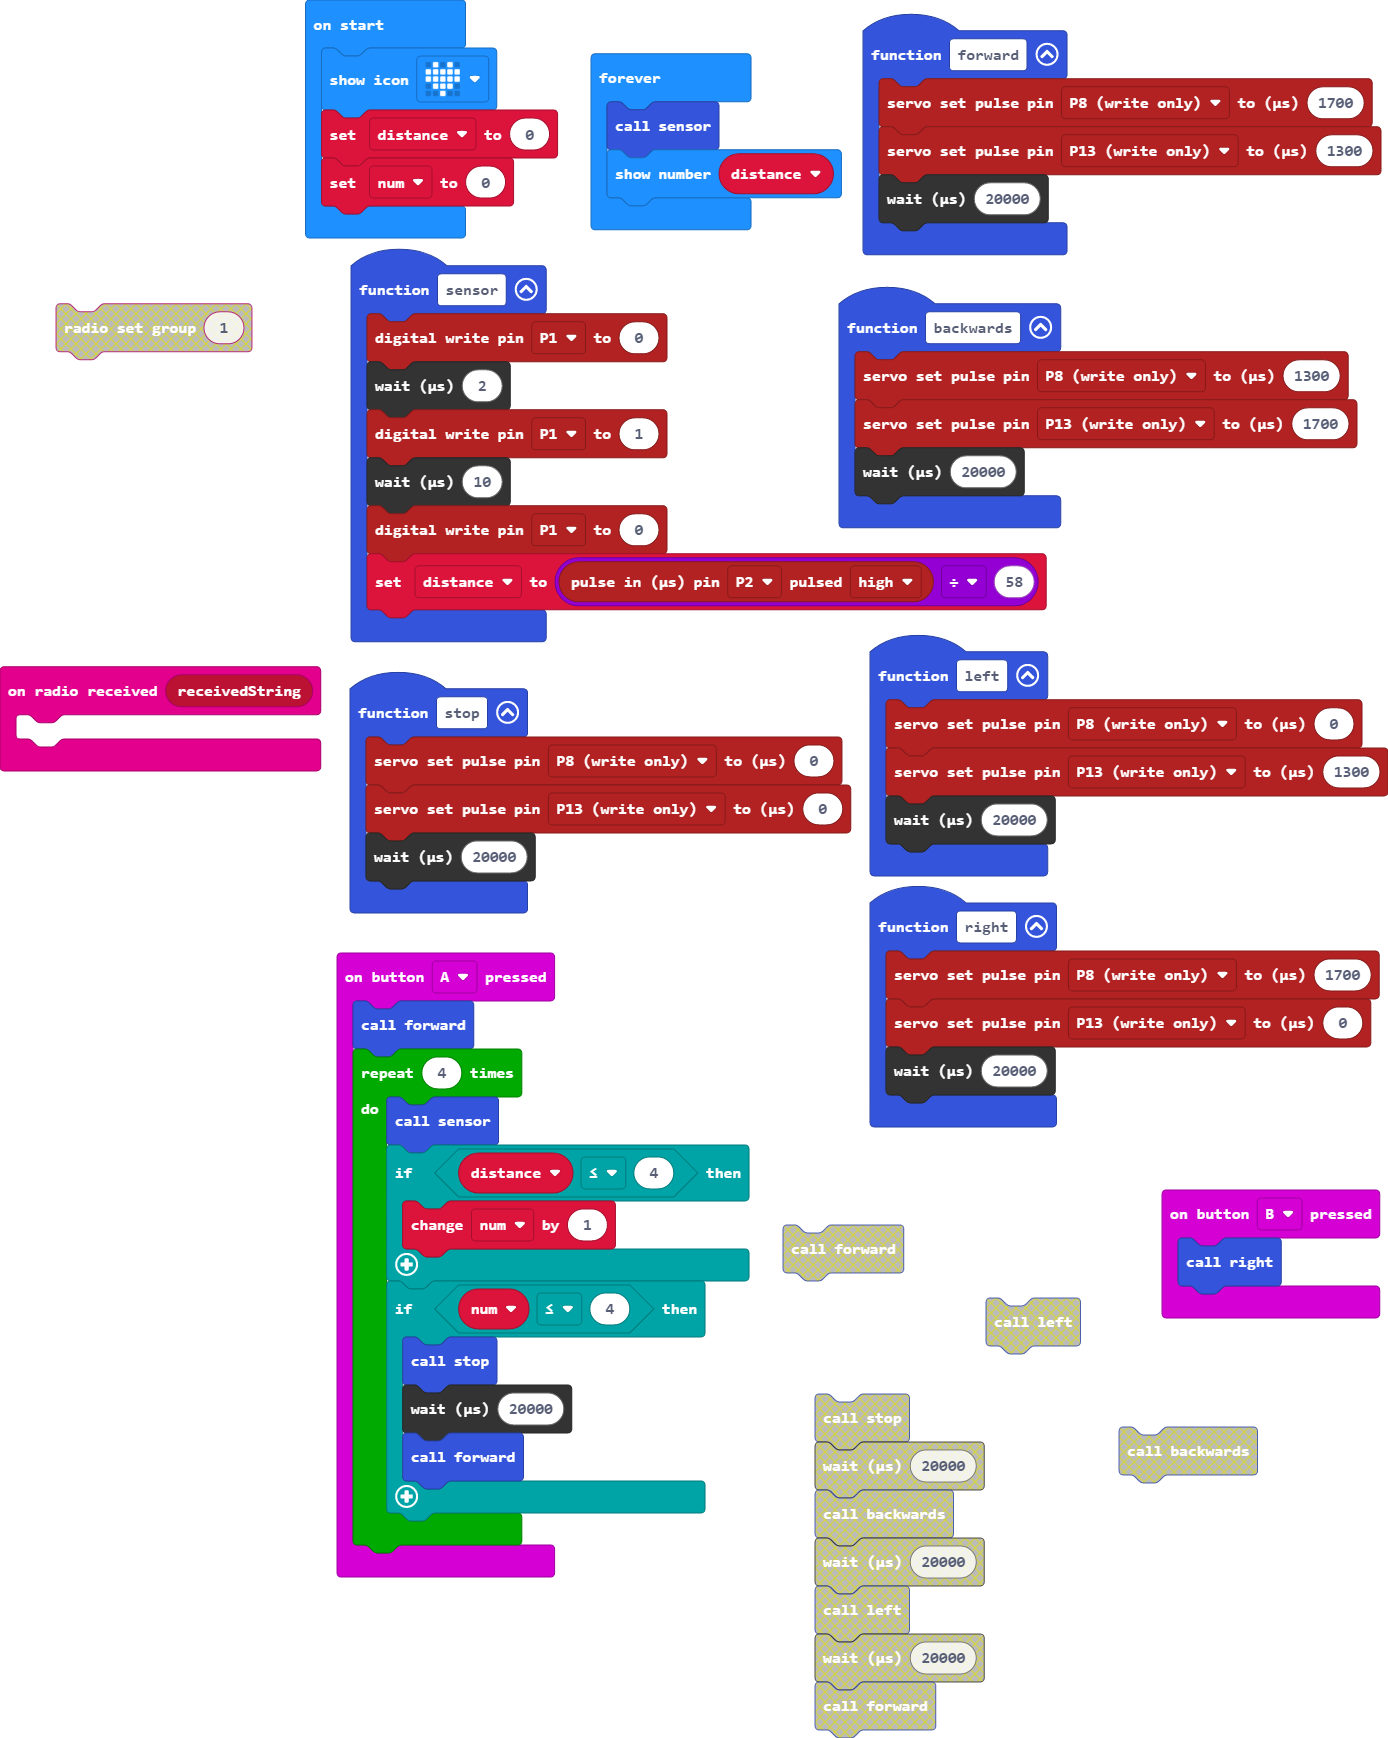
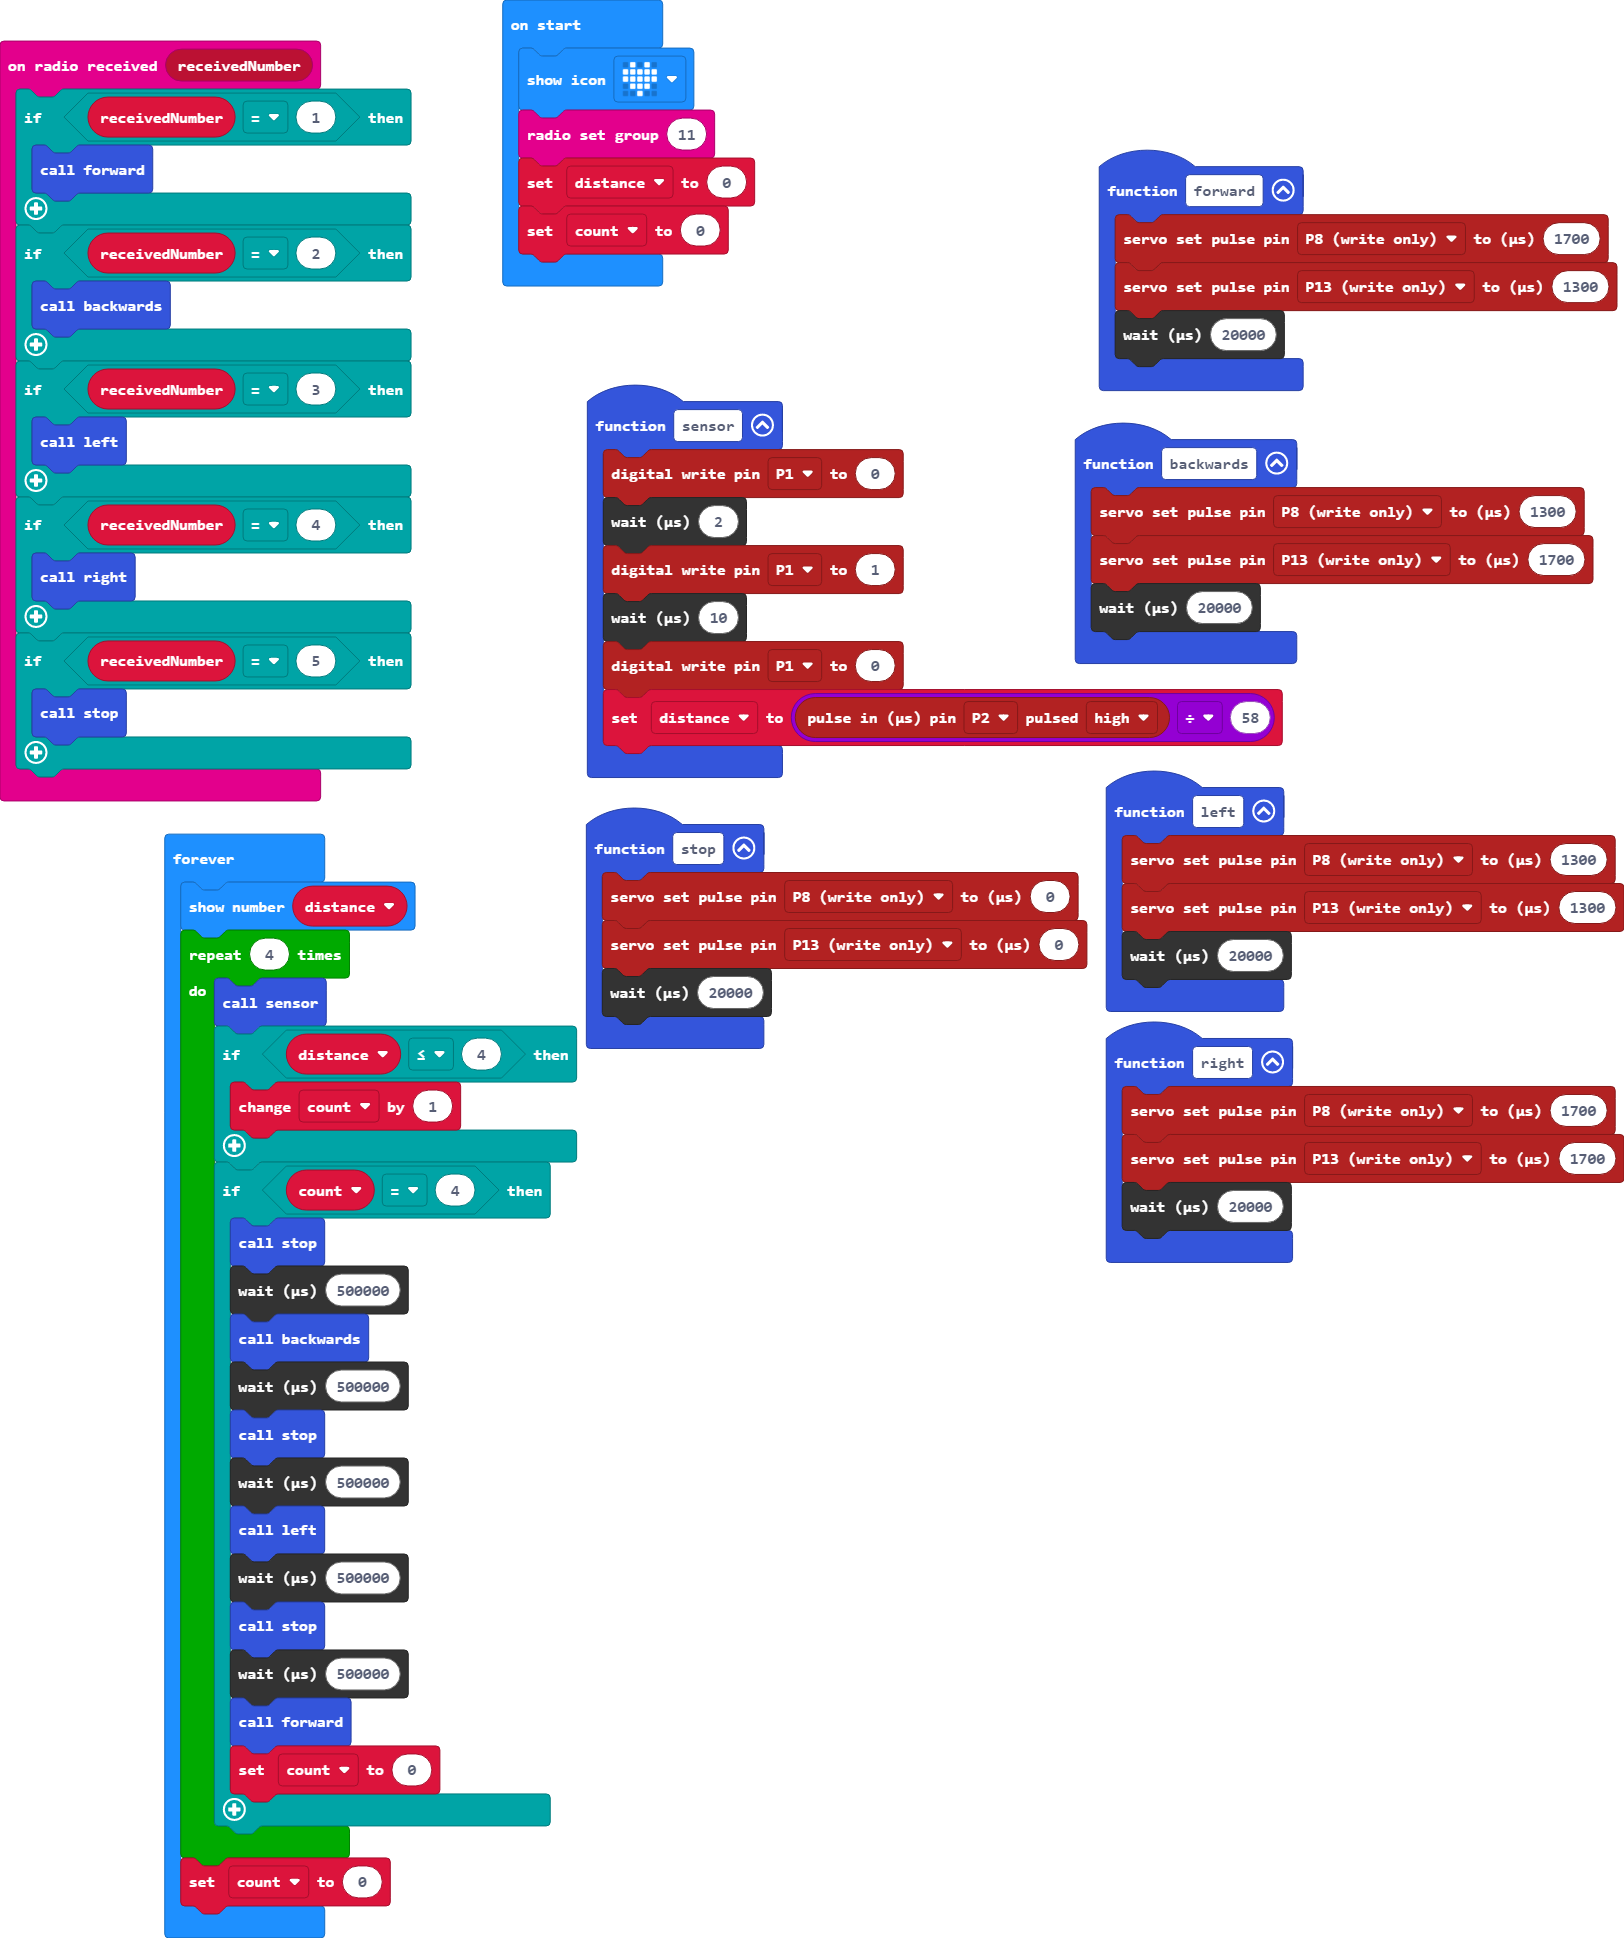
Update main.blocks, main.ts

diff --git a/main.ts b/main.ts
@@ -1,10 +1,27 @@
 function right () {
     pins.servoSetPulse(AnalogPin.P8, 1700)
-    pins.servoSetPulse(AnalogPin.P13, 0)
+    pins.servoSetPulse(AnalogPin.P13, 1700)
     control.waitMicros(20000)
 }
+radio.onReceivedNumber(function (receivedNumber) {
+    if (receivedNumber == 1) {
+        forward()
+    }
+    if (receivedNumber == 2) {
+        backwards()
+    }
+    if (receivedNumber == 3) {
+        left()
+    }
+    if (receivedNumber == 4) {
+        right()
+    }
+    if (receivedNumber == 5) {
+        stop()
+    }
+})
 function left () {
-    pins.servoSetPulse(AnalogPin.P8, 0)
+    pins.servoSetPulse(AnalogPin.P8, 1300)
     pins.servoSetPulse(AnalogPin.P13, 1300)
     control.waitMicros(20000)
 }
@@ -13,31 +30,11 @@ function stop () {
     pins.servoSetPulse(AnalogPin.P13, 0)
     control.waitMicros(20000)
 }
-input.onButtonPressed(Button.A, function () {
-    forward()
-    for (let index = 0; index < 4; index++) {
-        sensor()
-        if (distance <= 4) {
-            num += 1
-        }
-        if (num <= 4) {
-            stop()
-            control.waitMicros(20000)
-            forward()
-        }
-    }
-})
-radio.onReceivedString(function (receivedString) {
-	
-})
 function backwards () {
     pins.servoSetPulse(AnalogPin.P8, 1300)
     pins.servoSetPulse(AnalogPin.P13, 1700)
     control.waitMicros(20000)
 }
-input.onButtonPressed(Button.B, function () {
-    right()
-})
 function forward () {
     pins.servoSetPulse(AnalogPin.P8, 1700)
     pins.servoSetPulse(AnalogPin.P13, 1300)
@@ -51,12 +48,32 @@ function sensor () {
     pins.digitalWritePin(DigitalPin.P1, 0)
     distance = pins.pulseIn(DigitalPin.P2, PulseValue.High) / 58
 }
-let num = 0
 let distance = 0
 basic.showIcon(IconNames.Heart)
+radio.setGroup(11)
 distance = 0
-num = 0
+let count = 0
 basic.forever(function () {
-    sensor()
     basic.showNumber(distance)
+    for (let index = 0; index < 4; index++) {
+        sensor()
+        if (distance <= 4) {
+            count += 1
+        }
+        if (count == 4) {
+            stop()
+            control.waitMicros(500000)
+            backwards()
+            control.waitMicros(500000)
+            stop()
+            control.waitMicros(500000)
+            left()
+            control.waitMicros(500000)
+            stop()
+            control.waitMicros(500000)
+            forward()
+            count = 0
+        }
+    }
+    count = 0
 })
